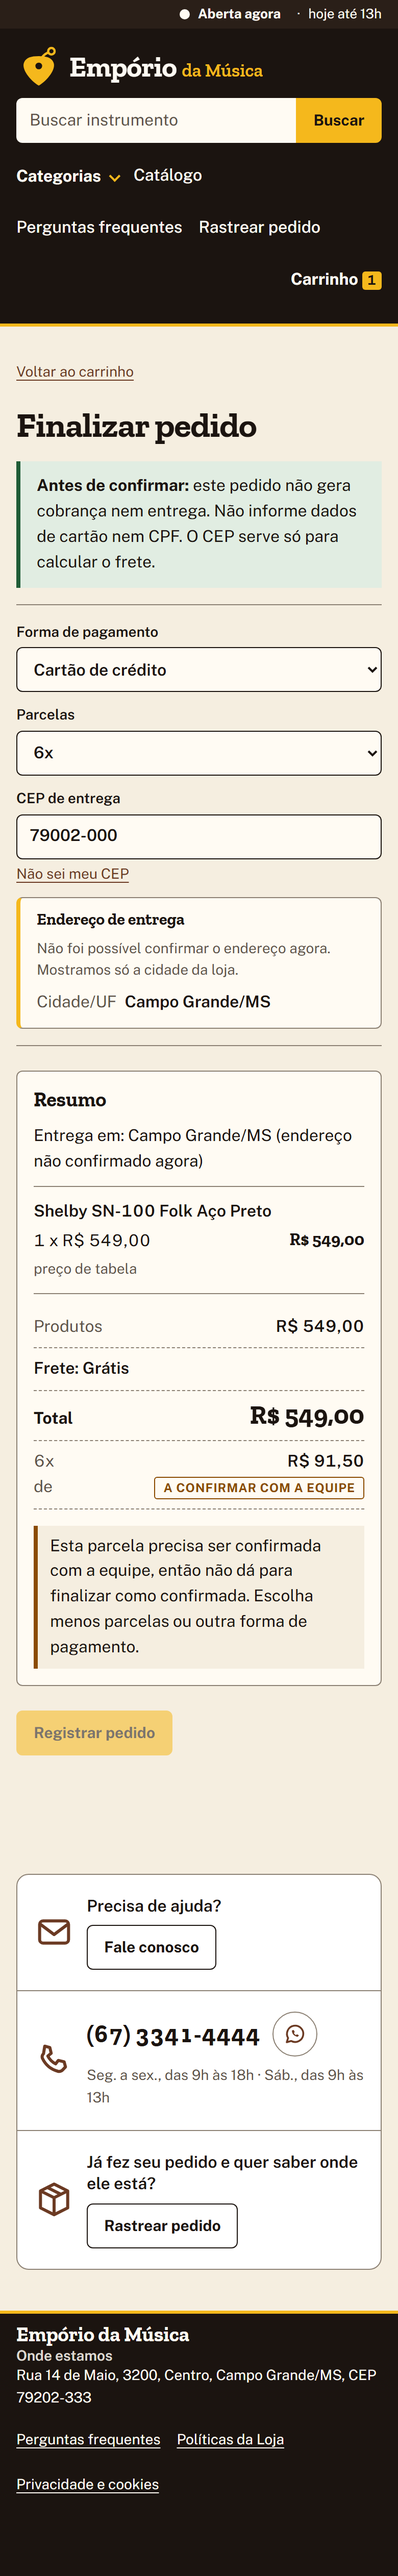
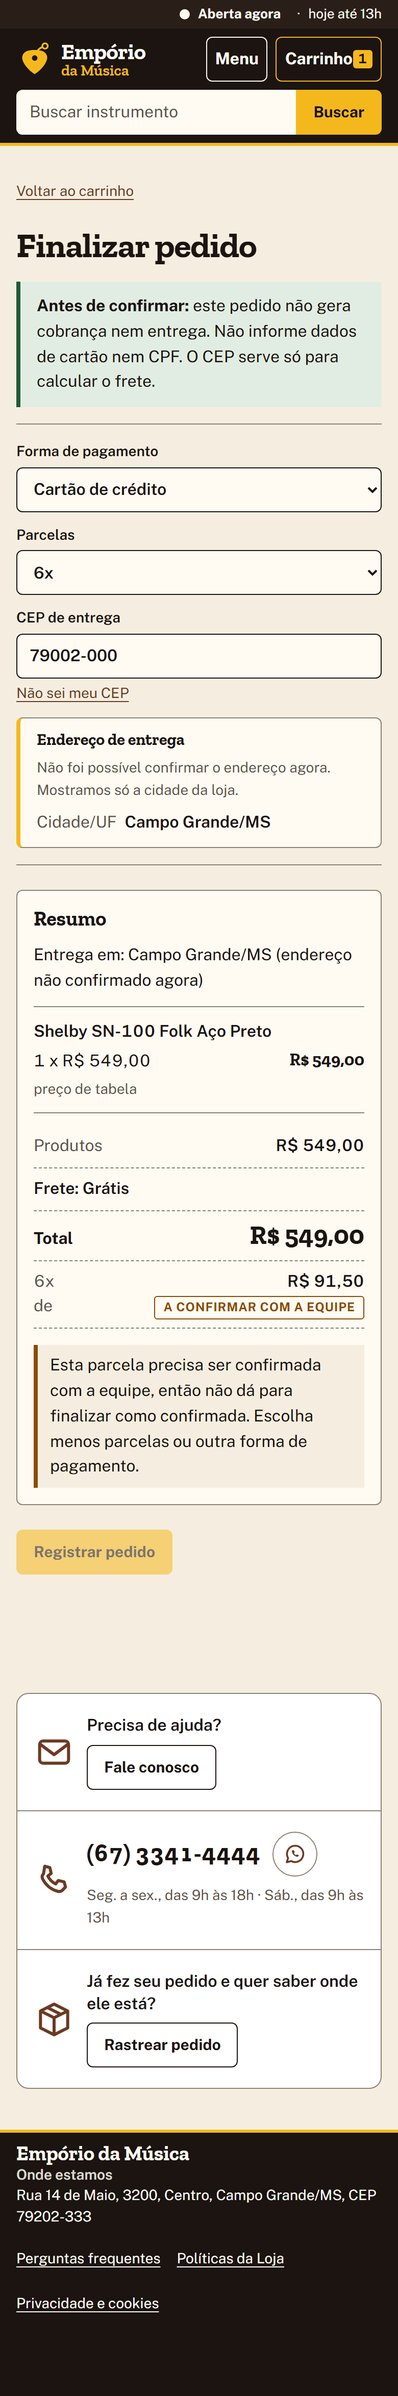
Cabecalho movel compacto com menu recolhido e ritmo da conversa da Lia (escrevendo)
Claude-Session: https://claude.ai/code/session_015Vju7JSfSoavS6n6CSE4J7

Changed region(s): [[0.0, 0.0, 1.0, 0.9638], [0.7385, 0.3109, 0.8308, 0.3731], [0.9231, 0.2798, 0.9538, 0.3109]]

diff --git a/src/emporio/web/static/chat.js b/src/emporio/web/static/chat.js
@@ -17,6 +17,7 @@
 
     var salvo = ler(CHAVE_LOG);
     if (salvo) log.innerHTML = salvo;
+    log.querySelectorAll(".escrevendo").forEach(function (n) { n.remove(); });  // nunca restaura uma bolha de escrevendo
 
     var celular = window.matchMedia("(max-width: 767px), (max-height: 520px) and (pointer: coarse)");  // celular em pé ou deitado
     var html = document.documentElement;
@@ -57,7 +58,7 @@
     }
     marcarConversa();
     if (campo && corpo) {
-      campo.addEventListener("focus", function () { corpo.classList.add("campo-em-foco"); });
+      campo.addEventListener("focus", function () { if (celular.matches) corpo.classList.add("campo-em-foco"); });
       campo.addEventListener("blur", function () { corpo.classList.remove("campo-em-foco"); });
     }
     // Foco contido na Lia aberta em tela cheia: Tab e Shift+Tab circulam só pelo painel.
@@ -67,13 +68,20 @@
         function (n) { return !n.disabled && n.offsetParent !== null; });
       if (!itens.length) return;
       var primeiro = itens[0], ultimo = itens[itens.length - 1];
-      if (e.shiftKey && document.activeElement === primeiro) { e.preventDefault(); ultimo.focus(); }
+      if (e.shiftKey && (document.activeElement === primeiro || document.activeElement === painel)) { e.preventDefault(); ultimo.focus(); }
       else if (!e.shiftKey && document.activeElement === ultimo) { e.preventDefault(); primeiro.focus(); }
     });
     var camada = document.getElementById("lia-camada");
     if (camada) camada.addEventListener("click", function (e) { e.preventDefault(); e.stopPropagation(); Sobreposicoes.fechar(gestor); });
 
-    function abrirChat() { Sobreposicoes.abrir(gestor); if (campo) campo.focus(); }
+    // no celular o campo não ganha foco ao abrir: o teclado não cobre a conversa nem as sugestões antes da hora
+    function abrirChat() {
+      Sobreposicoes.abrir(gestor);
+      if (!campo) return;
+      if (!celular.matches) { campo.focus(); return; }
+      painel.setAttribute("tabindex", "-1");  // o foco entra no painel (sem teclado) e o Tab circula só dentro dele
+      painel.focus({ preventScroll: true });
+    }
     botao.addEventListener("click", function () { if (aberto()) Sobreposicoes.fechar(gestor); else abrirChat(); });
     // Celular: o toque na faixa da página acima do painel só fecha a Lia; não aciona o que está por baixo.
     document.addEventListener("click", function (e) {
@@ -92,10 +100,44 @@
     }
     var SEM_REDE = "Sem conexão. A Lia precisa de internet para responder. Seu texto foi mantido, envie de novo quando a conexão voltar.";
 
+    // Ritmo da conversa: depois da bolha do cliente aparece "Lia está escrevendo"; a resposta chega do servidor, mas só
+    // entra no lugar dessa bolha depois de min(700 + 15 ms por caractere, 2200 ms) contados desde o envio. Só no navegador.
+    var TEMPO_BASE = 700, TEMPO_CHAR = 15, TEMPO_MAX = 2200;
+    var escrevendo = null, envioEm = 0, esperando = false, temporizador = null;
+    function salvar() {  // o histórico guardado nunca leva a bolha de escrevendo
+      var c = log.cloneNode(true);
+      c.querySelectorAll(".escrevendo").forEach(function (n) { n.remove(); });
+      gravar(CHAVE_LOG, c.innerHTML);
+    }
+    function mostrarEscrevendo() {
+      var p = document.createElement("p");
+      p.className = "msg lia escrevendo";
+      p.innerHTML = '<span class="so-leitor">Lia está escrevendo</span><span class="pontos" aria-hidden="true"><i></i><i></i><i></i></span>';
+      log.appendChild(p);
+      log.scrollTop = log.scrollHeight;
+      escrevendo = p; envioEm = Date.now(); esperando = true;
+    }
+    function tirarEscrevendo() {
+      if (temporizador) { clearTimeout(temporizador); temporizador = null; }
+      if (escrevendo && escrevendo.parentNode) escrevendo.parentNode.removeChild(escrevendo);
+      escrevendo = null; esperando = false;
+    }
+    function entregar(html, espera) {
+      temporizador = setTimeout(function () {
+        temporizador = null;
+        if (escrevendo && escrevendo.parentNode) escrevendo.parentNode.removeChild(escrevendo);
+        escrevendo = null; esperando = false;
+        log.insertAdjacentHTML("beforeend", html);
+        if (window.htmx) window.htmx.process(log);
+        log.scrollTop = log.scrollHeight;
+        salvar();
+      }, Math.max(0, espera));
+    }
+
     document.body.addEventListener("htmx:afterSwap", function (e) {
       if (e.target !== log) return;
       log.scrollTop = log.scrollHeight;
-      gravar(CHAVE_LOG, log.innerHTML);
+      salvar();
     });
     // Bolha otimista: a mensagem aparece no log ao enviar e o campo é limpo; falha desfaz as duas coisas.
     var pendente = null;
@@ -114,6 +156,7 @@
     }
     document.body.addEventListener("htmx:beforeRequest", function (e) {
       if (e.target !== form) return;
+      if (esperando) { e.preventDefault(); return; }  // a Lia ainda está "escrevendo" a resposta anterior
       if (navigator.onLine === false) { e.preventDefault(); avisar(SEM_REDE); return; }
       var texto = campo.value;
       if (!texto.trim()) return;
@@ -123,14 +166,18 @@
       log.appendChild(bolha);
       log.scrollTop = log.scrollHeight;
       pendente = { bolha: bolha, texto: texto };
+      mostrarEscrevendo();
       if (corpo) corpo.classList.add("ja-conversou");
       campo.value = "";
     });
     document.body.addEventListener("htmx:sendError", function (e) {
-      if (e.target === form) avisar(SEM_REDE);  // rede caiu no envio: a Lia não responde de cache nem finge resposta
+      if (e.target !== form) return;
+      tirarEscrevendo();
+      avisar(SEM_REDE);  // rede caiu no envio: a Lia não responde de cache nem finge resposta
     });
     document.body.addEventListener("htmx:afterRequest", function (e) {
       if (e.target !== form) return;
+      if (pendente) tirarEscrevendo();
       desfazerPendente();  // sem resposta aproveitada (sem rede, ocupada, inválida): a bolha sai e o texto volta ao campo
       campo.focus();
     });
@@ -140,11 +187,17 @@
       var status = e.detail.xhr.status;
       if (status === 422 || status === 503) {
         e.detail.shouldSwap = true;
+        tirarEscrevendo();
         desfazerPendente();
         e.detail.serverResponse = semBolhaDoUsuario(e.detail.serverResponse);
       } else if (status >= 200 && status < 300 && pendente) {
-        e.detail.serverResponse = semBolhaDoUsuario(e.detail.serverResponse);
+        var corrigido = semBolhaDoUsuario(e.detail.serverResponse);
         pendente = null;  // a bolha otimista fica como a mensagem do cliente
+        var t = document.createElement("template");
+        t.innerHTML = corrigido;
+        var minimo = Math.min(TEMPO_BASE + TEMPO_CHAR * t.content.textContent.trim().length, TEMPO_MAX);
+        e.detail.shouldSwap = false;  // a troca é feita por nós, quando o tempo mínimo de "escrevendo" passar
+        entregar(corrigido, minimo - (Date.now() - envioEm));
       }
     });
     // Sugestão e "Quero comprar" só preparam a conversa: abrem o painel, preenchem o campo e põem o foco nele.

diff --git a/src/emporio/web/static/site.css b/src/emporio/web/static/site.css
@@ -100,8 +100,8 @@ button:disabled { opacity: .55; cursor: wait; }
 .busca-topo button { border-radius: 0 var(--raio) var(--raio) 0; background: var(--ipe); color: var(--palco); border-color: var(--ipe); }
 .busca-topo button:hover { background: var(--ipe-escuro); border-color: var(--ipe-escuro); }
 .menu { display: flex; flex-wrap: wrap; align-items: center; gap: 0 var(--s4); grid-column: 1 / -1; grid-row: 3; }
-.menu > a { color: var(--creme-claro); font-weight: 500; text-decoration: none; padding-block: var(--s3); border-bottom: 2px solid transparent; white-space: nowrap; }
-.menu > a:hover { border-bottom-color: var(--ipe); color: var(--creme-claro); }
+.menu-itens > a { color: var(--creme-claro); font-weight: 500; text-decoration: none; padding-block: var(--s3); border-bottom: 2px solid transparent; white-space: nowrap; }
+.menu-itens > a:hover { border-bottom-color: var(--ipe); color: var(--creme-claro); }
 .menu .link-carrinho { margin-left: auto; font-weight: 700; }
 .menu-categorias { position: relative; }
 .menu-categorias summary { color: var(--creme-claro); list-style: none; cursor: pointer; font-weight: 700; padding-block: var(--s3); display: inline-flex; gap: var(--s2); align-items: center; min-height: 44px; }
@@ -112,6 +112,27 @@ button:disabled { opacity: .55; cursor: wait; }
   border: 1px solid var(--tinta); border-radius: var(--raio); padding: var(--s1); z-index: 30; box-shadow: 0 8px 24px rgba(27,20,16,.35); }
 .menu-categorias li a { display: flex; justify-content: space-between; gap: var(--s4); padding: var(--s3); text-decoration: none; color: var(--tinta); min-height: 44px; align-items: center; }
 .menu-categorias li a:hover { background: var(--creme-escuro); }
+.menu-recolhido { display: block; }
+.menu-itens { display: flex; flex-wrap: wrap; align-items: center; gap: 0 var(--s4); }
+.menu-botao { list-style: none; cursor: pointer; display: inline-flex; align-items: center; min-height: 44px; min-width: 44px; padding-inline: var(--s2);
+  border: 1px solid var(--creme-claro); border-radius: var(--raio); color: var(--creme-claro); font-weight: 700; }
+.menu-botao::-webkit-details-marker { display: none; }
+@media (min-width: 900px) { .menu-botao { display: none; } }
+@media (max-width: 899px) {
+  /* cabeçalho compacto: marca, botão de menu e carrinho na primeira linha; busca na segunda; links recolhidos */
+  .topo-in { padding-block: var(--s2); gap: var(--s2) var(--s3); }
+  .marca-svg { width: 36px; height: 36px; }
+  .marca { min-width: 0; }
+  .marca-nome { font-size: 1.375rem; display: grid; line-height: 1.05; }
+  .marca-2 { font-size: .9375rem; }
+  .menu { grid-column: 2; grid-row: 1; flex-wrap: nowrap; gap: var(--s2); }
+  .menu .link-carrinho { margin-left: 0; display: inline-flex; align-items: center; min-height: 44px; padding-inline: var(--s2); color: var(--creme-claro); text-decoration: none; border: 1px solid var(--ipe); border-radius: var(--raio); }
+  .menu-itens { position: absolute; left: 0; right: 0; top: 100%; flex-direction: column; align-items: stretch; gap: 0; padding: var(--s2) var(--lateral) var(--s3);
+    background: var(--palco-claro); border-bottom: 3px solid var(--ipe); z-index: 40; box-shadow: 0 8px 24px rgba(27,20,16,.35); }
+  .menu-itens > a, .menu-categorias summary { display: flex; align-items: center; min-height: 44px; padding-block: 0; border-bottom: 1px solid rgba(245,238,224,.18); }
+  .menu-categorias { position: static; }
+  .menu-categorias ul { position: static; max-width: none; box-shadow: none; margin: 0 0 var(--s2); }
+}
 @media (min-width: 1024px) {
   .topo-in { grid-template-columns: auto minmax(14rem, 1fr) auto; gap: var(--s8); }
   .busca-topo { grid-column: 2; grid-row: 1; }
@@ -338,6 +359,13 @@ a.canal { text-decoration: underline; text-underline-offset: 3px; }
 .chat-sugestoes button { min-height: 44px; border-radius: 999px; font-size: .875rem; padding-inline: var(--s3); }
 .chat-form { display: flex; gap: var(--s2); padding: var(--s3); border-top: 1px solid var(--cinza); }
 .chat-form input { flex: 1; min-width: 0; font-size: 1rem; }
+.msg.escrevendo { display: inline-flex; align-items: center; min-height: 2.25rem; }
+.pontos { display: inline-flex; gap: 5px; }
+.pontos i { width: 7px; height: 7px; border-radius: 50%; background: var(--cinza-texto); animation: escrevendo 1.1s infinite ease-in-out; }
+.pontos i:nth-child(2) { animation-delay: .18s; }
+.pontos i:nth-child(3) { animation-delay: .36s; }
+@keyframes escrevendo { 0%, 70%, 100% { opacity: .3; transform: translateY(0); } 35% { opacity: 1; transform: translateY(-3px); } }
+@media (prefers-reduced-motion: reduce) { .pontos i { animation: none !important; opacity: .7; } }
 .chat-espera { margin: 0; padding: 0 var(--s3) var(--s2); color: var(--cinza-texto); font-size: .8125rem; }
 .htmx-indicator { display: none; }
 .htmx-request.htmx-indicator, .htmx-request .htmx-indicator { display: block; }
@@ -348,6 +376,8 @@ a.canal { text-decoration: underline; text-underline-offset: 3px; }
 .chat-log { flex: 1 1 17rem; height: auto; min-height: 4.5rem; }
 .chat-corpo.campo-em-foco .chat-sugestoes, .chat-corpo.ja-conversou .chat-sugestoes { display: none; }
 .lia-camada { display: none; }
+.chat:focus { outline: none; }
+@media (max-height: 420px) { .chat-sugestoes { display: none; } }
 html.chat-tela-cheia .lia-camada { display: block; position: fixed; left: 0; right: 0; top: 0; height: calc(var(--topo-visivel, 0px) + var(--faixa-chat)); z-index: 79; background: transparent; touch-action: none; }
 @media (max-height: 520px) { :root.chat-tela-cheia { --faixa-chat: 2.75rem; } }
 @media (max-width: 767px) {

diff --git a/src/emporio/web/templates/base.html b/src/emporio/web/templates/base.html
@@ -58,6 +58,9 @@
       <button type="submit">Buscar</button>
     </form>
     <nav class="menu" aria-label="Principal">
+      <details class="menu-recolhido" data-sobreposicao data-so-celular>
+        <summary class="menu-botao" data-gatilho aria-label="Menu de navegação">Menu</summary>
+        <div class="menu-itens" data-painel>
       {% block menu_categorias %}<details class="menu-categorias" data-sobreposicao>
         <summary data-gatilho>Categorias</summary>
         <ul data-painel>
@@ -70,6 +73,8 @@
       <a href="/catalogo">Catálogo</a>
       <a href="/perguntas-frequentes">Perguntas frequentes</a>
       <a href="/rastreio">Rastrear pedido</a>
+        </div>
+      </details>
       {% set qtd = itens_no_carrinho(request) %}<a class="link-carrinho" href="/carrinho">Carrinho{% if qtd %} <span class="contagem-carrinho" aria-label="{{ qtd }} no carrinho">{{ qtd }}</span>{% endif %}</a>
     </nav>
   </div>
@@ -132,13 +137,12 @@
         <li><button type="button" data-pergunta="Como funcionam as trocas e devoluções?">Trocas e devoluções</button></li>
       </ul>
       <form id="chat-form" class="chat-form" hx-post="/chat" hx-target="#chat-log" hx-swap="beforeend"
-            hx-disabled-elt="#chat-enviar" hx-indicator="#chat-espera">
+            hx-disabled-elt="#chat-enviar">
         <label class="so-leitor" for="chat-mensagem">Mensagem</label>
         <input id="chat-mensagem" name="mensagem" type="text" maxlength="500" autocomplete="off" enterkeyhint="send"
                placeholder="Escreva sua mensagem" required>
         <button id="chat-enviar" type="submit">Enviar</button>
       </form>
-      <p id="chat-espera" class="htmx-indicator chat-espera">A Lia está respondendo...</p>
     </div>
   </section>
   <button id="chat-alternar" class="lia-botao" type="button" aria-expanded="false" aria-controls="chat" data-gatilho>

diff --git a/src/emporio/web/static/sobreposicoes.js b/src/emporio/web/static/sobreposicoes.js
@@ -17,7 +17,8 @@
     if (devolverFoco && o.gatilho) o.gatilho.focus();
   }
   function fecharOutros(mantem) {
-    lista.forEach(function (o) { if (o !== mantem && ativo(o)) fechar(o, false); });
+    // quem contém o elemento aberto (menu recolhido com o menu de categorias dentro) fica aberto
+    lista.forEach(function (o) { if (o !== mantem && ativo(o) && !o.raiz.contains(mantem.raiz)) fechar(o, false); });
   }
   function registrar(o) {
     lista.push(o);

diff --git a/tests/e2e/test_qa_movel_e2e.py b/tests/e2e/test_qa_movel_e2e.py
@@ -118,3 +118,71 @@ def test_lia_prende_o_foco_e_camada_absorve_o_toque_na_faixa(servidor_movel, mov
     pagina.touchscreen.tap(40, 20)
     pagina.wait_for_selector("#chat", state="hidden")
     assert pagina.url == url
+
+
+def test_cabecalho_movel_compacto_com_menu_recolhido_e_carrinho_visivel(servidor_movel, movel):
+    pagina, _, largura = movel
+    pagina.goto(servidor_movel + "/catalogo")
+    m = pagina.evaluate("""() => { const q = s => document.querySelector(s).getBoundingClientRect();
+        return {topo: q('.topo').height, botao: q('.menu-botao'), carrinho: q('.link-carrinho'), busca: q('.busca-topo input'),
+                itens_visiveis: document.querySelector('.menu-recolhido').open,
+                sobra: document.documentElement.scrollWidth - innerWidth}; }""")
+    assert m["topo"] <= 140, m  # antes do ajuste o cabeçalho passava de 200 px
+    assert m["botao"]["height"] >= 44 and m["botao"]["width"] >= 44
+    assert m["carrinho"]["height"] >= 44 and 0 <= m["carrinho"]["x"] and m["carrinho"]["x"] + m["carrinho"]["width"] <= largura
+    assert not m["itens_visiveis"] and m["sobra"] <= 0
+    pagina.tap(".menu-botao")
+    alvos = pagina.evaluate("""() => ['/catalogo', '/perguntas-frequentes', '/rastreio'].map(h =>
+        { const r = document.querySelector('.menu-itens > a[href="' + h + '"]').getBoundingClientRect(); return [h, r.height, r.width, r.right]; })""")
+    for _, alt, lar, dir_ in alvos:
+        assert alt >= 44 and dir_ <= largura
+    pagina.tap(".menu-categorias summary")
+    assert pagina.locator(".menu-itens").is_visible() and pagina.locator(".menu-categorias ul").is_visible()
+    pagina.tap(".menu-itens a[href='/rastreio']")
+    pagina.wait_for_url("**/rastreio")
+    assert not pagina.evaluate("document.querySelector('.menu-recolhido').open")
+
+
+def test_cabecalho_em_1280_nao_muda(servidor_movel):
+    from playwright.sync_api import sync_playwright
+    with sync_playwright() as p:
+        nav = p.chromium.launch()
+        try:
+            pagina = nav.new_page(viewport={"width": 1280, "height": 800})
+            pagina.goto(servidor_movel + "/")
+            assert pagina.locator(".menu-botao").is_hidden()
+            for h in ("/catalogo", "/perguntas-frequentes", "/rastreio", "/carrinho"):
+                assert pagina.locator(f".menu a[href='{h}']").last.is_visible()
+            assert pagina.locator(".menu-categorias summary").is_visible()
+            assert pagina.evaluate("document.querySelector('.topo').getBoundingClientRect().height") < 120
+        finally:
+            nav.close()
+
+
+def test_ritmo_da_conversa_cliente_escrevendo_resposta(servidor_movel, movel):
+    pagina, _, _ = movel
+    pagina.goto(servidor_movel + "/")
+    pagina.tap("#chat-alternar")
+    pagina.wait_for_selector("#chat:not([hidden])")
+    pagina.evaluate("""() => { window.__t = {}; const log = document.getElementById('chat-log'), t0 = () => performance.now();
+        new MutationObserver(ms => { for (const m of ms) { m.addedNodes.forEach(n => { if (n.nodeType !== 1) return;
+            if (n.classList.contains('voce')) window.__t.voce = t0();
+            else if (n.classList.contains('escrevendo')) window.__t.esc_ini = t0();
+            else if (n.classList.contains('lia')) window.__t.resposta = t0(); });
+          m.removedNodes.forEach(n => { if (n.nodeType === 1 && n.classList.contains('escrevendo')) window.__t.esc_fim = t0(); }); } })
+          .observe(log, {childList: true}); }""")
+    pagina.fill("#chat-mensagem", "Quanto custa o frete?")
+    pagina.tap("#chat-enviar")
+    pagina.wait_for_selector("#chat-log .msg.voce")
+    assert pagina.locator("#chat-log .msg.voce").is_visible()
+    pagina.wait_for_function("window.__t.resposta", timeout=15000)
+    t = pagina.evaluate("window.__t")
+    assert t["voce"] <= t["esc_ini"] <= t["esc_fim"] <= t["resposta"] + 5
+    assert t["esc_fim"] - t["esc_ini"] >= 600, t  # a bolha de escrevendo fica visível por pelo menos 600 ms
+    assert pagina.locator("#chat-log .msg.voce").count() == 1
+    assert pagina.locator("#chat-log .escrevendo").count() == 0
+    assert pagina.locator("#chat-log .msg.lia").count() == 2  # saudação e uma única resposta
+    pagina.reload()
+    pagina.tap("#chat-alternar")
+    assert pagina.locator("#chat-log .escrevendo").count() == 0
+    assert pagina.locator("#chat-log .msg.voce").count() == 1 and pagina.locator("#chat-log .msg.lia").count() == 2

diff --git a/tests/e2e/test_site_real_e2e.py b/tests/e2e/test_site_real_e2e.py
@@ -212,7 +212,7 @@ def test_sugestoes_da_lia_recebem_resposta_util(url_site, navegador, largura):
     for rotulo, padrao in esperado.items():
         pagina.goto(url_site + "/")
         pagina.click("#chat-alternar")
-        antes = pagina.locator("#chat-log .msg.lia").count()
+        antes = pagina.locator("#chat-log .msg.lia:not(.escrevendo)").count()
         enviadas_antes = pagina.locator("#chat-log .msg.voce").count()
         botao = pagina.locator(f"#chat .chat-sugestoes button:has-text('{rotulo}')")
         enviada = botao.get_attribute("data-pergunta")
@@ -221,9 +221,9 @@ def test_sugestoes_da_lia_recebem_resposta_util(url_site, navegador, largura):
         assert pagina.locator("#chat-log .msg.voce").count() == enviadas_antes  # clicar na sugestão não envia
         assert pagina.input_value("#chat-mensagem") == enviada and pagina.evaluate("document.activeElement.id") == "chat-mensagem"
         pagina.keyboard.press("Enter")
-        pagina.wait_for_function(f"document.querySelectorAll('#chat-log .msg.lia').length > {antes}", timeout=20000)
+        pagina.wait_for_function(f"document.querySelectorAll('#chat-log .msg.lia:not(.escrevendo)').length > {antes}", timeout=20000)
         assert pagina.locator("#chat-log .msg.voce").last.inner_text().strip() == enviada  # o texto enviado é o do botão
-        resposta = pagina.locator("#chat-log .msg.lia").last.inner_text()
+        resposta = pagina.locator("#chat-log .msg.lia:not(.escrevendo)").last.inner_text()
         assert len(resposta) > 25 and re.search(padrao, resposta, re.I), (rotulo, resposta)
         assert "Não consegui" not in resposta, (rotulo, resposta)
 

diff --git a/tests/e2e/test_ajustes_finais_e2e.py b/tests/e2e/test_ajustes_finais_e2e.py
@@ -60,14 +60,15 @@ def test_bolha_aparece_antes_da_resposta_e_nao_duplica(url_site, navegador):
     pagina.wait_for_selector("#chat-log .msg.voce")
     assert pagina.locator("#chat-log .msg.voce").inner_text().strip() == TEXTO
     assert pagina.input_value("#chat-mensagem") == ""  # campo limpo
-    assert pagina.locator("#chat-espera").is_visible()  # indicador "A Lia está respondendo..."
-    assert pagina.locator("#chat-log .msg.lia").count() == 1  # só a saudação: a resposta ainda não chegou
+    assert pagina.locator("#chat-log .msg.lia.escrevendo").is_visible()  # "Lia está escrevendo" no lugar do indicador de texto
+    assert pagina.locator("#chat-log .msg.lia:not(.escrevendo)").count() == 1  # só a saudação: a resposta ainda não chegou
     assert len(presas) == 1
     presas[0].continue_()
     pagina.wait_for_selector("#chat-log .msg.lia:has-text('EM-')", timeout=20000)
     assert pagina.locator("#chat-log .msg.voce").count() == 1  # sem duplicar
     classes = pagina.eval_on_selector_all("#chat-log .msg", "ns => ns.map(n => n.classList.contains('voce') ? 'voce' : 'lia')")
     assert classes == ["lia", "voce", "lia"]  # ordem: saudação, cliente, Lia
+    assert pagina.locator("#chat-log .escrevendo").count() == 0  # a bolha de escrevendo foi substituída pela resposta
     pagina.reload()  # o histórico guardado também não duplica
     pagina.click("#chat-alternar")
     assert pagina.locator("#chat-log .msg.voce").count() == 1

diff --git a/tests/e2e/test_pwa_e2e.py b/tests/e2e/test_pwa_e2e.py
@@ -150,7 +150,8 @@ def test_toques_de_44px_nos_controles_do_celular(url_site, navegador):
     ctx = navegador.new_context(viewport={"width": 390, "height": 844}, has_touch=True, is_mobile=True)
     pagina = ctx.new_page()
     pagina.goto(url_site + "/")
-    for seletor in ("#chat-alternar", ".menu > a", ".busca-topo button", ".busca-topo input", ".menu-categorias summary", "[data-seta='1']",
+    pagina.tap(".menu-botao")  # navegação recolhida no celular: abre o menu para medir os alvos dentro dele
+    for seletor in ("#chat-alternar", ".menu-botao", ".link-carrinho", ".menu-itens > a", ".busca-topo button", ".busca-topo input", ".menu-categorias summary", "[data-seta='1']",
                     ".abertura-acoes .botao"):
         assert pagina.locator(seletor).first.bounding_box()["height"] >= 44, seletor
     ctx.close()

diff --git a/tests/e2e/test_home_e2e.py b/tests/e2e/test_home_e2e.py
@@ -93,7 +93,9 @@ def test_catalogo_no_cabecalho_leva_ao_catalogo_sem_rolagem_horizontal(url_site,
     pagina = _pagina(navegador, largura, 800)
     pagina.goto(url_site + "/")
     assert pagina.evaluate("document.documentElement.scrollWidth") <= largura
-    pagina.locator(".menu > a", has_text="Catálogo").click()
+    if largura < 900:
+        pagina.locator(".menu-botao").click()  # no celular a navegação fica recolhida no botão de menu
+    pagina.locator(".menu-itens > a", has_text="Catálogo").click()
     pagina.wait_for_url("**/catalogo")
     assert pagina.evaluate("document.documentElement.scrollWidth") <= largura
 
